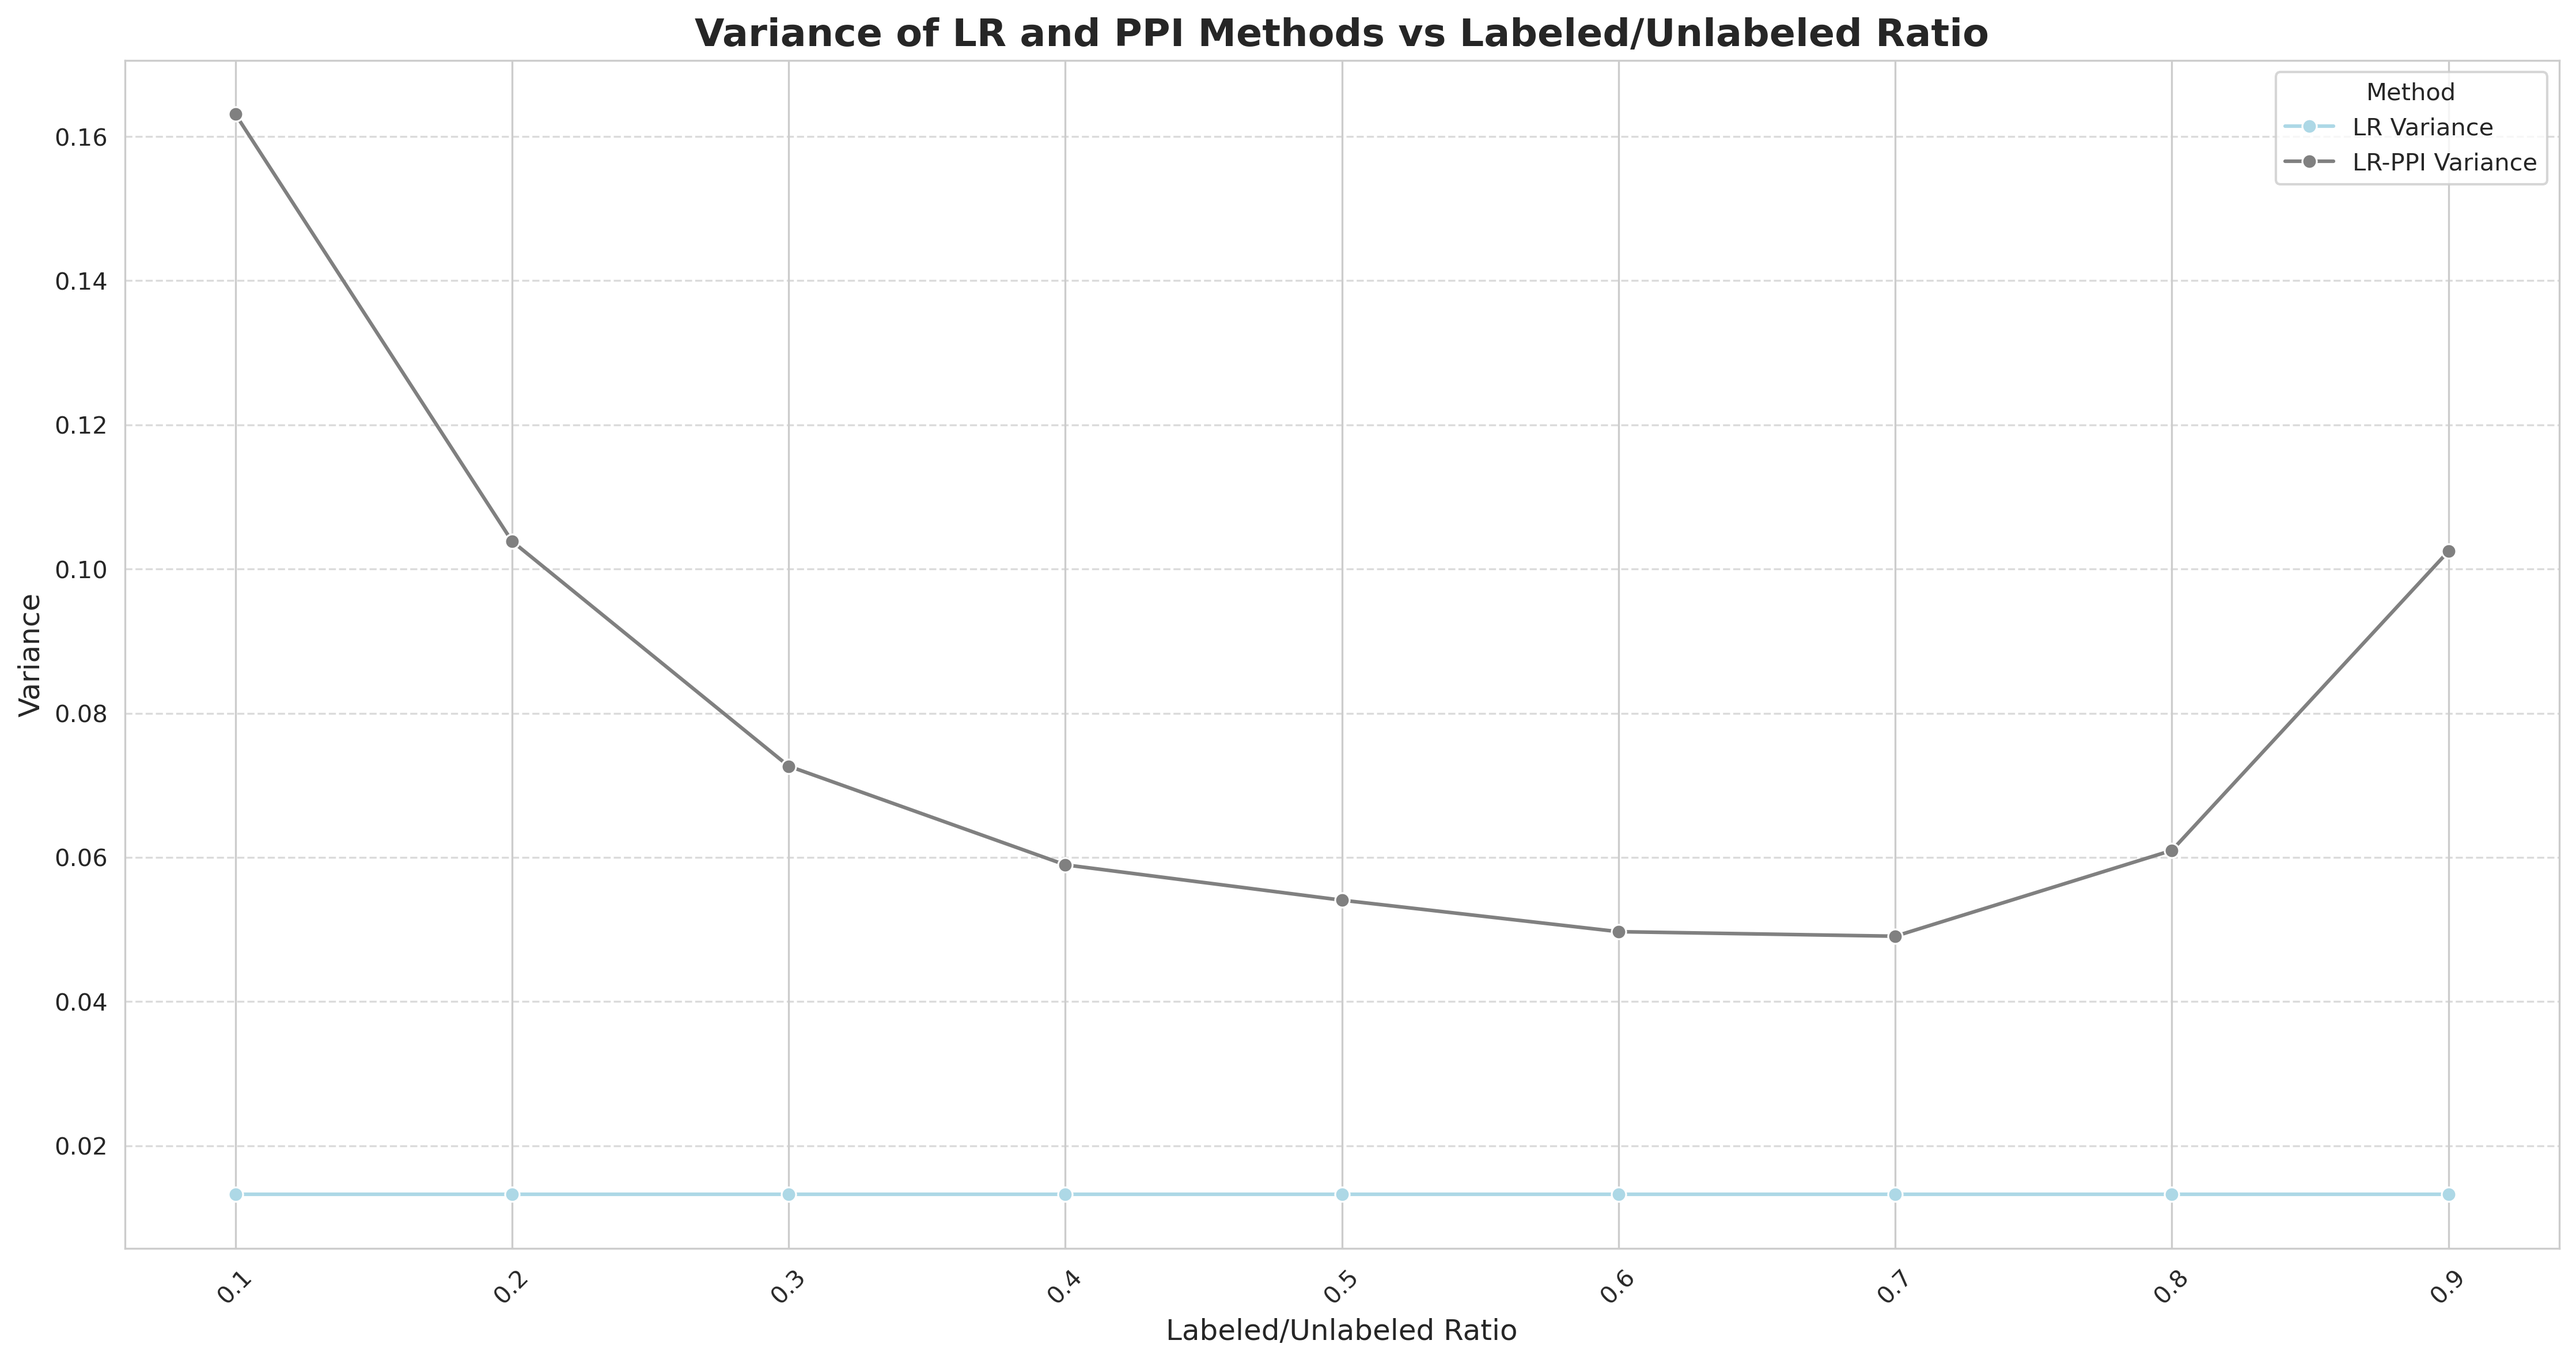
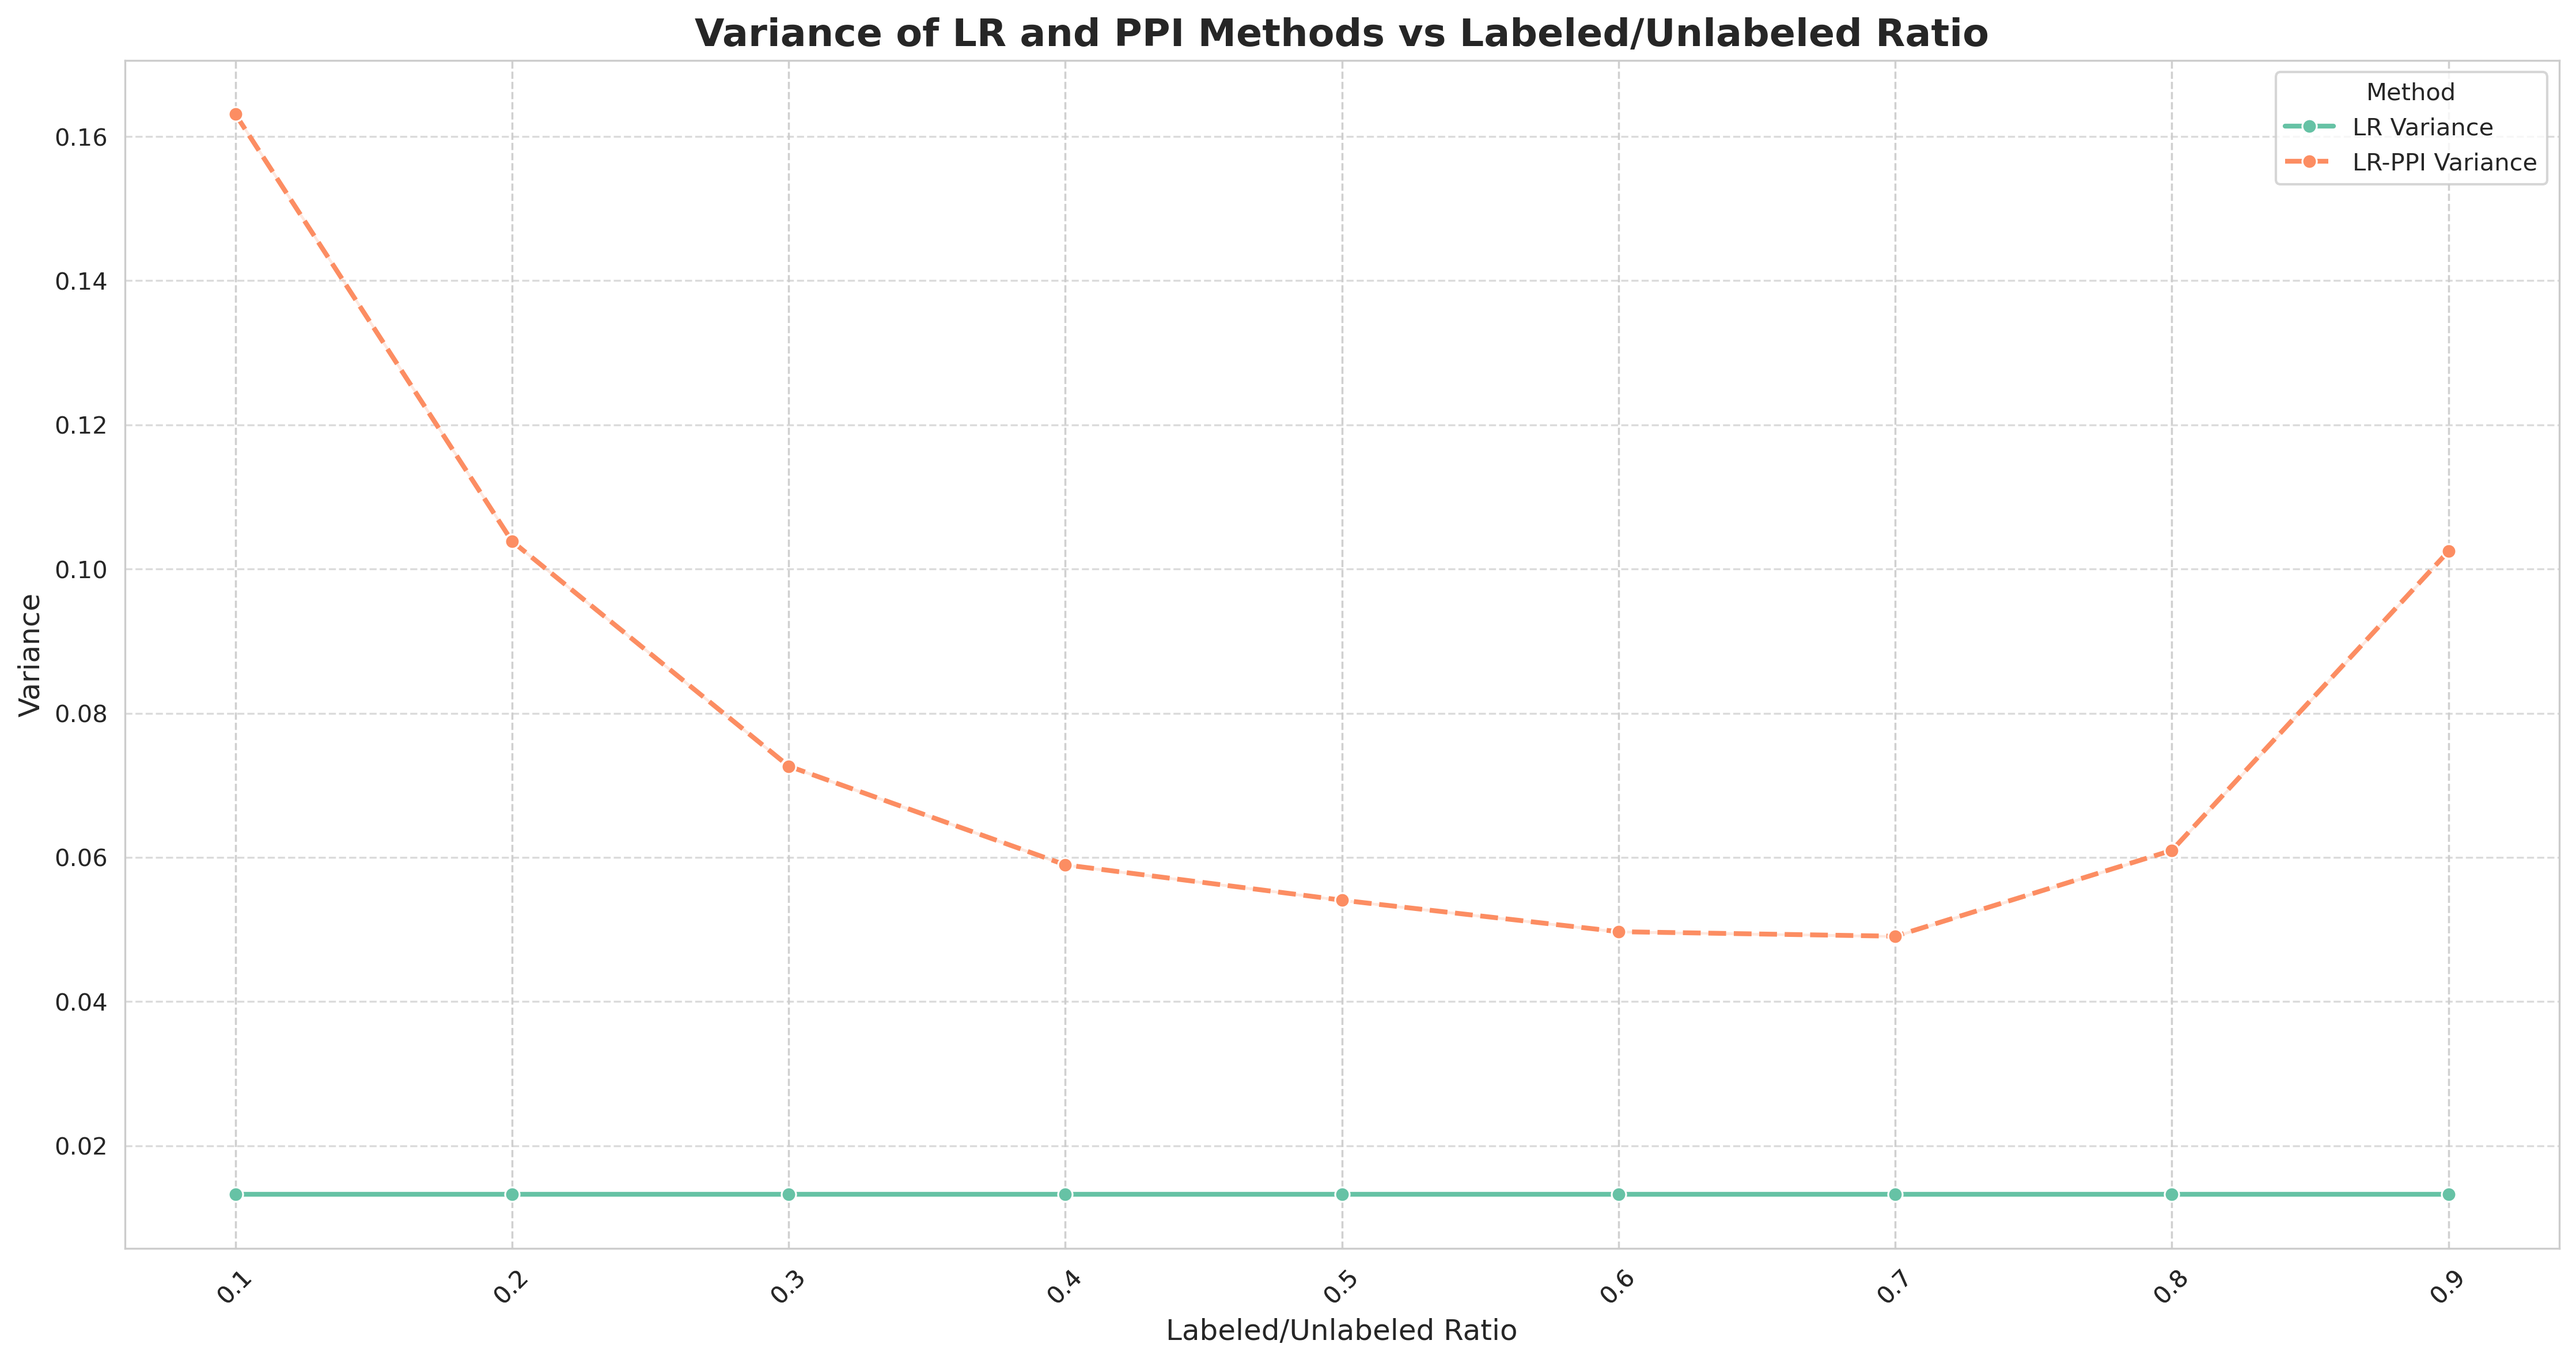
chore: Improve clarity and aesthetics of LR and LR-PPI variance plot

diff --git a/src/visualization/plot_variance.py b/src/visualization/plot_variance.py
@@ -13,15 +13,17 @@ def plot_variance(result_file):
     # Create the plot
     plt.figure(figsize=(15, 8))
     sns.set_style("whitegrid")
+    sns.set_palette("Set2")  # Changed color palette
 
-    # Plot LR and PPI variances
+    # Plot LR and PPI variances with improved clarity
     sns.lineplot(
         x="labeled_unlabeled_ratio",
         y="lr_variance",
         data=df,
         label="LR Variance",
         marker="o",
-        color="lightblue",
+        linestyle="-",  # Added line style
+        linewidth=2,  # Increased line width
     )
 
     sns.lineplot(
@@ -30,7 +32,8 @@ def plot_variance(result_file):
         data=df,
         label="LR-PPI Variance",
         marker="o",
-        color="gray",
+        linestyle="--",  # Added line style
+        linewidth=2,  # Increased line width
     )
     # Set labels and title
     plt.title(
@@ -41,7 +44,7 @@ def plot_variance(result_file):
     plt.xlabel("Labeled/Unlabeled Ratio", fontsize=12)
     plt.ylabel("Variance", fontsize=12)
     plt.xticks(df["labeled_unlabeled_ratio"], rotation=45)
-    plt.grid(axis="y", linestyle="--", alpha=0.7)
+    plt.grid(axis="both", linestyle="--", alpha=0.7)  # Changed to both axes
 
     # Customize legend
     plt.legend(title="Method", loc="upper right", frameon=True)
